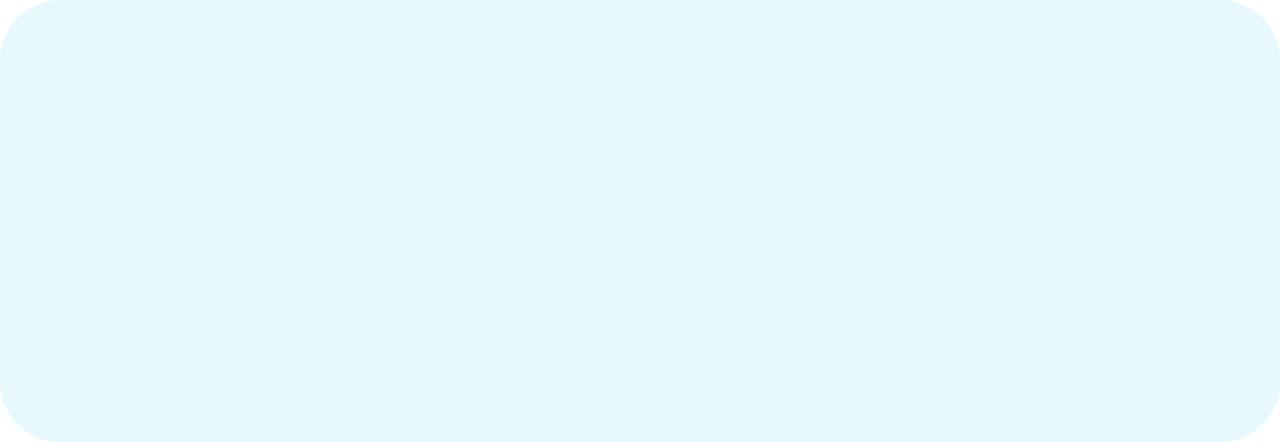
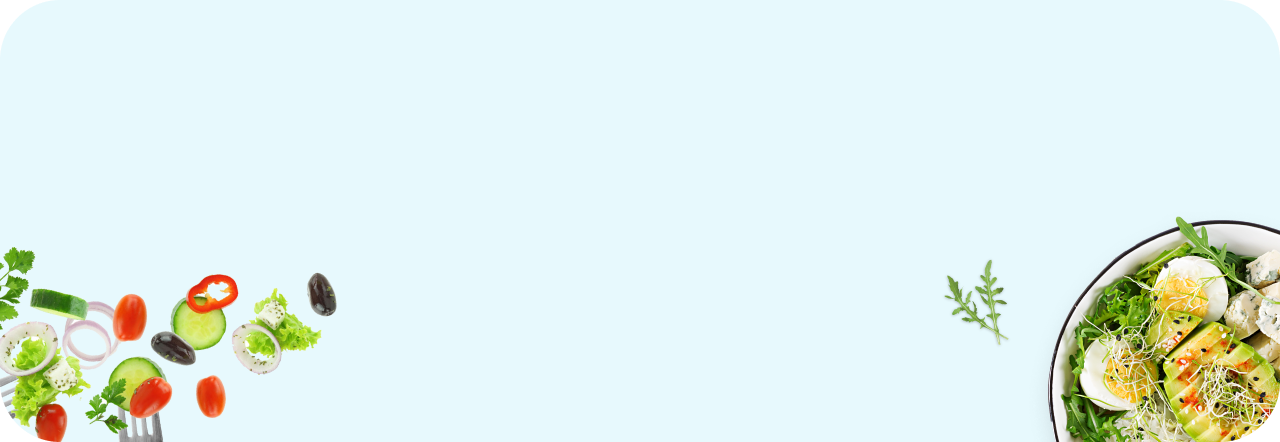
fixed background of hero section and email, added z indexes and absoluted the text on top of it

Changed region(s): [[0.8125, 0.5, 1.0, 1.0], [0.0, 0.5588, 0.2812, 1.0], [0.7188, 0.5882, 0.7812, 0.7647]]

diff --git a/src/components/heroSection/HeroSection.tsx b/src/components/heroSection/HeroSection.tsx
@@ -1,5 +1,5 @@
 import React from "react";
-import { Box, GridWrapper, FlexWrapper } from "components";
+import { Box, GridWrapper, FlexWrapper, Image } from "components";
 import { StaticImage } from "gatsby-plugin-image";
 import SectionHeader from "components/sectionHeader/SectionHeader";
 import GrayButton from "components/foodLabel/GrayButton";
@@ -9,7 +9,7 @@ import styled from "styled-components/macro";
 import { useQuery } from "styles/breakpoints";
 
 const HeroSection = () => {
-  const { isMobile, isTablet } = useQuery();
+  const { isTablet } = useQuery();
 
   return (
     <GridWrapper
@@ -18,33 +18,46 @@ const HeroSection = () => {
       mx={isTablet ? "s0" : "s90"}
       mb={isTablet ? "s0" : "s160"}
     >
-      <Box
-        bg="teal"
-        backgroundImage={"url('../../assets/images/rectangle.png')"}
-      >
-        <GrayButtonContainer ml={50}>
-          <GrayButton title={"Hot Recipes"} secondButton />
-        </GrayButtonContainer>
-        <Box ml={"s35"}>
-          <SectionHeader
-            header={"Spicy delicious chicken wings"}
-            paragraph={
-              "Lorem ipsum dolor sit amet, consectetuipisicing elit, sed do eiusmod tempor incididunt ut labore et dolore magna aliqut enim ad minim"
-            }
-          />
+      <Box position="relative">
+        <StaticImage
+          src="../../assets/images/rectangle.png"
+          placeholder="tracedSVG"
+          draggable="false"
+          style={{
+            height: "100%",
+            width: "100%",
+          }}
+          alt="teal background"
+        />
+        <Box position="absolute" top="5%" right="-15%" zIndex={2}>
+          <Image src="badge" />
         </Box>
-        <FlexWrapper ml={"s50"} mb={isTablet ? "s50" : "s100"} gap={"16px"}>
-          <GrayButton image={"timewatch"} title={"30 Minutes"} />
-          <GrayButton image={"forkknife"} title={"Chicken"} />
-        </FlexWrapper>
-        <FlexWrapper ml={"s50"} mb={"s50"} gap={"50px"}>
-          <UserAccount
-            name={"John Smith"}
-            dateOfPost={"15 March 2022"}
-            image={"user"}
-          />
-          <BlackButton title={"View Recipes"} image={"play"} />
-        </FlexWrapper>
+        <Box position="absolute" top="0">
+          <GrayButtonContainer ml={50}>
+            <GrayButton title={"Hot Recipes"} secondButton />
+          </GrayButtonContainer>
+          <Box ml={"s35"}>
+            <SectionHeader
+              headerOne
+              header={"Spicy delicious chicken wings"}
+              paragraph={
+                "Lorem ipsum dolor sit amet, consectetuipisicing elit, sed do eiusmod tempor incididunt ut labore et dolore magna aliqut enim ad minim"
+              }
+            />
+          </Box>
+          <FlexWrapper ml={"s50"} mb={isTablet ? "s50" : "s100"} gap={"16px"}>
+            <GrayButton image={"timewatch"} title={"30 Minutes"} />
+            <GrayButton image={"forkknife"} title={"Chicken"} />
+          </FlexWrapper>
+          <FlexWrapper ml={"s50"} mb={"s50"} gap={"50px"}>
+            <UserAccount
+              name={"John Smith"}
+              dateOfPost={"15 March 2022"}
+              image={"user"}
+            />
+            <BlackButton title={"View Recipes"} image={"play"} />
+          </FlexWrapper>
+        </Box>
       </Box>
       <Box>
         <StaticImage

diff --git a/src/components/emailSection/Email.tsx b/src/components/emailSection/Email.tsx
@@ -1,42 +1,53 @@
 import React from "react";
 import SectionHeader from "components/sectionHeader/SectionHeader";
 import BlackButton from "components/buttons/BlackButton";
-import { FlexWrapper, Input, Box, SectionWrapper } from "components";
+import { FlexWrapper, Input, Box, SectionWrapper, Image } from "components";
+import { StaticImage } from "gatsby-plugin-image";
 
 const Email = () => {
   return (
-    <SectionWrapper>
-      <Box
-        height={"442px"}
-        bg="teal"
-        pt={"s80"}
-        m={"auto"}
-        textAlign={"center"}
-      >
-        <FlexWrapper>
-          <SectionHeader
-            header={"Deliciousness to your inbox"}
-            center
-            paragraph={
-              "Lorem ipsum dolor sit amet, consectetuipisicing elit, sed do eiusmod tempor incididunt ut labore et dolore magna aliqut enim ad minim "
-            }
+    <SectionWrapper position="relative">
+      <Box height={"100%"} pt={"s80"} mx={"s80"} textAlign={"center"}>
+        {/* <Box>
+          <StaticImage
+            src="../../assets/images/rectanglelong.png"
+            placeholder="tracedSVG"
+            draggable="false"
+            alt="teal"
+            style={{
+              width: "100%",
+            }}
           />
-        </FlexWrapper>
-        <FlexWrapper justifyContent="center">
-          <Box position="relative">
-            <Box>
-              <Input
-                p={"30px"}
-                width={"480px"}
-                height={"80px"}
-                placeholder={"Your email adress..."}
-              ></Input>
+        </Box> */}
+        <Box>
+          <Image src="rectanglelong.png" />
+        </Box>
+        <Box>
+          <FlexWrapper>
+            <SectionHeader
+              header={"Deliciousness to your inbox"}
+              center
+              paragraph={
+                "Lorem ipsum dolor sit amet, consectetuipisicing elit, sed do eiusmod tempor incididunt ut labore et dolore magna aliqut enim ad minim "
+              }
+            />
+          </FlexWrapper>
+          <FlexWrapper justifyContent="center">
+            <Box position="relative">
+              <Box>
+                <Input
+                  p={"30px"}
+                  width={"480px"}
+                  height={"80px"}
+                  placeholder={"Your email adress..."}
+                ></Input>
+              </Box>
+              <Box position={"absolute"} top={"10%"} right={"5%"}>
+                <BlackButton title={"Subscribe"} isShort />
+              </Box>
             </Box>
-            <Box position={"absolute"} top={"10%"} right={"5%"}>
-              <BlackButton title={"Subscribe"} isShort />
-            </Box>
-          </Box>
-        </FlexWrapper>
+          </FlexWrapper>
+        </Box>
       </Box>
     </SectionWrapper>
   );

diff --git a/src/styles/theme.ts b/src/styles/theme.ts
@@ -67,21 +67,21 @@ export const theme = {
     h1: {
       fontSize: "4rem",
       fontSizeMobile: "3rem",
-      lineHeight: "6.5rem",
+      lineHeight: "4.8125rem",
       lineHeightMobile: "5.25rem",
-      fontWeight: 500,
+      fontWeight: 600,
     },
     h2: {
-      fontSize: "4.5rem",
-      fontSizeMobile: "3.5rem",
-      lineHeight: "5.875rem",
-      lineHeightMobile: "4.5625rem",
-      fontWeight: 500,
+      fontSize: "3rem",
+      fontSizeMobile: "3rem",
+      lineHeight: "4.8125rem",
+      lineHeightMobile: "5.25rem",
+      fontWeight: 600,
     },
     h3: {
-      fontSize: "3.5rem",
+      fontSize: "1.5rem",
       fontSizeMobile: "2.5rem",
-      lineHeight: "4.5625rem",
+      lineHeight: "2rem",
       lineHeightMobile: "3.25rem",
       fontWeight: 600,
     },
@@ -104,6 +104,20 @@ export const theme = {
       fontSizeMobile: "24px",
       lineHeightMobile: "32px",
       lineHeight: "42px",
+      fontWeight: 600,
+    },
+    p: {
+      fontSize: "16px",
+      fontSizeMobile: "14px",
+      lineHeightMobile: "22px",
+      lineHeight: "28px",
+      fontWeight: 400,
+    },
+    body16: {
+      fontSize: "14px",
+      fontSizeMobile: "14px",
+      lineHeightMobile: "22px",
+      lineHeight: "17px",
       fontWeight: 600,
     },
   },

diff --git a/src/components/navigation/Navigation.tsx b/src/components/navigation/Navigation.tsx
@@ -14,20 +14,24 @@ const Navigation = () => {
       mb={"s40"}
     >
       <FlexWrapper
-        py={"s40"}
         justifyContent="space-around"
         flexDirection={isTablet ? "column" : "row"}
-        alignItems={isTablet ? "center" : ""}
+        alignItems={"center"}
         gap={isTablet ? "20px" : ""}
       >
-        <Box>
-          <Typography type={"h2"} color={"primary"} fontFamily={"Lobster"}>
-            Foodieland
-            <Typography type={"span"} color={"orange"}>
-              .
-            </Typography>
+        {/* <Box> */}
+        <Typography
+          type={"h2"}
+          color={"primary"}
+          fontSize={"fs24"}
+          fontFamily={"Lobster"}
+        >
+          Foodieland
+          <Typography type={"span"} color={"orange"}>
+            .
           </Typography>
-        </Box>
+        </Typography>
+        {/* </Box> */}
         <NavigationList>
           <NavigationListItem>Home</NavigationListItem>
           <NavigationListItem>Recipes</NavigationListItem>

diff --git a/src/components/sectionHeader/SectionHeader.tsx b/src/components/sectionHeader/SectionHeader.tsx
@@ -6,30 +6,28 @@ type SectionHeaderTypes = {
   header?: string;
   paragraph?: string;
   center?: boolean;
+  headerOne?: boolean;
 };
 
 const SectionHeader: React.FC<SectionHeaderTypes> = ({
   header,
   paragraph,
   center,
+  headerOne,
 }) => {
   const { isTablet } = useQuery();
 
   return (
     <ContentWrapper m={"auto"} mb={"s30"}>
-      <FlexWrapper
-        gap={"14px"}
-        flexDirection="column"
-        alignItems={center ? "center" : ""}
-      >
+      <FlexWrapper gap={"14px"} flexDirection="column">
         <Typography
-          type="h1"
+          type={headerOne ? "h1" : "h2"}
           color="primary"
-          fontSize={isTablet ? "fs32" : "fs48"}
+          textAlign={center ? "center" : ""}
         >
           {header}
         </Typography>
-        <Typography fontSize={"fs16"} color={"gray"}>
+        <Typography color={"gray"} textAlign={center ? "center" : ""}>
           {paragraph}
         </Typography>
       </FlexWrapper>

diff --git a/src/components/footer/Footer.tsx b/src/components/footer/Footer.tsx
@@ -17,13 +17,17 @@ const Footer = () => {
       <Box mx={"s80"} pb={"s80"} borderBottom="1px solid #E5E5E5;">
         <FlexWrapper
           justifyContent="space-between"
-          mb={"s20"}
           flexDirection={isTablet ? "column" : ""}
-          alignItems={isTablet ? "center" : ""}
+          alignItems={"center"}
           gap={isTablet ? "20px" : ""}
         >
           <Box>
-            <Typography type={"h2"} color={"primary"} fontFamily={"Lobster"}>
+            <Typography
+              type={"h2"}
+              fontSize={"fs24"}
+              color={"primary"}
+              fontFamily={"Lobster"}
+            >
               Foodieland
               <Typography type={"span"} color={"orange"}>
                 .

diff --git a/src/components/typography/TypographyHelpers.ts b/src/components/typography/TypographyHelpers.ts
@@ -84,5 +84,18 @@ export const applyTextType = (type: TextType, theme: Theme) => {
           line-height: ${theme.typography.h6.lineHeightMobile}`
           : ""}
       `;
+
+    case "body16":
+      return css`
+        font-weight: ${theme.typography.body16.fontWeight};
+        font-size: ${theme.typography.body16.fontSize};
+        line-height: ${theme.typography.body16.lineHeight};
+
+        ${isTablet
+          ? css` 
+      font-size: ${theme.typography.body16.fontSizeMobile}
+      line-height: ${theme.typography.body16.lineHeightMobile}`
+          : ""}
+      `;
   }
 };

diff --git a/src/utils/visuals.ts b/src/utils/visuals.ts
@@ -24,6 +24,8 @@ import meatballs from "assets/images/meatballs.png";
 import healthy from "assets/images/healthy.png";
 import chef from "assets/images/chef.png";
 import rectanglelong from "assets/images/rectanglelong.png";
+import rectangle from "assets/images/rectangle.png";
+import badge from "assets/images/badge.png";
 
 export type Visuals = keyof typeof visuals;
 
@@ -54,4 +56,6 @@ export const visuals: Record<string, string> = {
   healthy,
   chef,
   rectanglelong,
+  rectangle,
+  badge,
 };

diff --git a/src/components/vegetablesSection/Vegetables.tsx b/src/components/vegetablesSection/Vegetables.tsx
@@ -13,7 +13,7 @@ const Vegetables = () => {
       mt={isTablet ? "s40" : "s0"}
       mb={isTablet ? "s40" : "s160"}
     >
-      <Typography type="h3" fontSize={"fs48"} color="primary" mb={"s80"}>
+      <Typography type="h3" color="primary" mb={"s80"}>
         Categories
       </Typography>
       <FlexWrapper gap={"40px"} flexWrap="wrap">

diff --git a/src/pages/index.js b/src/pages/index.js
@@ -16,6 +16,7 @@ const Landing = () => {
       <HeroSection />
       <Vegetables />
       <SectionHeader
+        center
         header="Simple and tasty recipes"
         paragraph="Lorem ipsum dolor sit amet, consectetuipisicing elit, sed do eiusmod tempor incididunt ut labore et dolore magna aliqut enim ad minim "
       />

diff --git a/src/components/foodLabel/GrayButton.tsx b/src/components/foodLabel/GrayButton.tsx
@@ -34,7 +34,7 @@ const GrayButton: React.FC<GrayButtonType> = ({
             <Image src="scroll" />
           </FlexWrapper>
         )}
-        <Typography type="span" color="gray">
+        <Typography type="body16" color="gray">
           {title}
         </Typography>
       </FlexWrapper>

diff --git a/src/components/buttons/BlackButton.tsx b/src/components/buttons/BlackButton.tsx
@@ -16,6 +16,7 @@ const BlackButton: React.FC<BlackButtonTypes> = ({ title, image, isShort }) => {
       width={200}
       height={60}
       display="flex"
+      border="none"
       alignItems="center"
       backgroundColor="primary"
       justifyContent="center"
